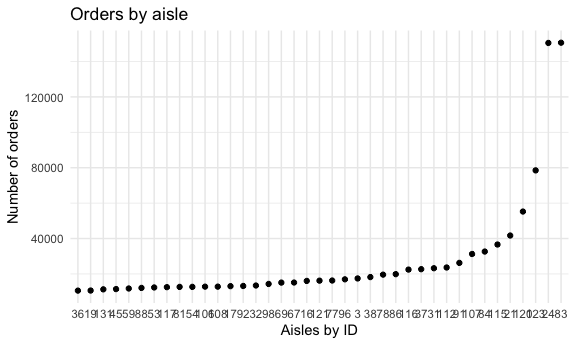
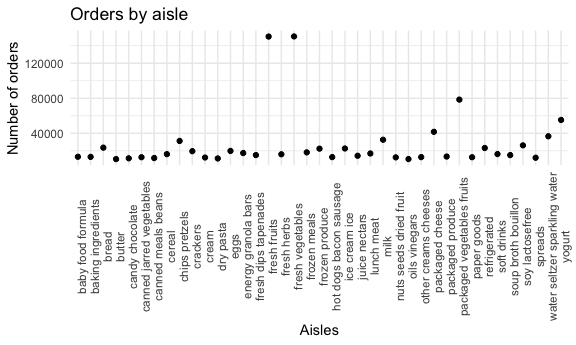
fixed plot in problem 1, added descriptions to all the questions in problem 1, added sentence to a description in problem 3

diff --git a/p8105_hw3_dmh2228.md b/p8105_hw3_dmh2228.md
@@ -72,25 +72,30 @@ are: fresh vegetables, fresh fruits, and packaged vegetable fruits.
 ``` r
 aisle_df = 
   instacart |>
-  count(aisle_id) |>
+  count(aisle) |>
   filter(n > 10000) |>
   mutate(
-    aisle_id = as.factor(aisle_id),
-    aisle_id = fct_reorder(aisle_id, n)
+    aisle_id = as.factor(aisle),
+    aisle_id = fct_reorder(aisle, n)
   )
 
 aisle_plot =
-  ggplot(aisle_df, aes(x = aisle_id, y = n)) + 
+  ggplot(aisle_df, aes(x = aisle, y = n)) + 
   geom_point() +
   labs(
     title = "Orders by aisle",
-    x = "Aisles by ID",
-    y = "Number of orders")
+    x = "Aisles",
+    y = "Number of orders") +
+  theme(axis.text.x = element_text(angle = 90))
 
 aisle_plot
 ```
 
 <img src="p8105_hw3_dmh2228_files/figure-gfm/unnamed-chunk-4-1.png" width="90%" />
+
+Aisles are arranged alphabetically and aisle names are vertical for
+readability. The plot shows that fresh fruit and fresh vegetables have
+the highest number of orders.
 
 # Most popular items in “baking ingredients”, “dog food care”, and “packaged vegetables fruits”
 
@@ -121,6 +126,14 @@ instacart_table
 | dog food care              | Organix Chicken & Brown Rice Recipe           |   28 |
 | dog food care              | Small Dog Biscuits                            |   26 |
 
+The three most ordered products within the packaged vegetables fruits
+aisle are organic baby spinach, organic raspberries, and organic
+blueberries. The three most ordered products within the baking
+ingredients aisle are light brown sugar, pure baking soda, and cane
+sugar. The three most ordered products within the dog food care aisle
+are snack sticks chicken & rice recipe dog treats, organix chicken &
+brown rice recipe, and small dog biscuits.
+
 # Pink Lady Apples and Coffee Ice Cream
 
 ``` r
@@ -149,6 +162,10 @@ apples_coffee_table
 |:-----------------|------:|------:|------:|------:|------:|------:|------:|
 | Coffee Ice Cream | 13.77 | 14.32 | 15.38 | 15.32 | 15.22 | 12.26 | 13.83 |
 | Pink Lady Apples | 13.44 | 11.36 | 11.70 | 14.25 | 11.55 | 12.78 | 11.94 |
+
+The mean hour of day ranges from 11am to 4pm for both coffee ice cream
+and pink lady apples by day of the week. For all but day 5, pink lady
+apples are ordered earlier than coffee ice cream.
 
 # Problem 2: BRFSS
 
@@ -478,4 +495,6 @@ nhanes_24_hour_plot
 Male and female participants across education levels and a 24-hour
 period have a similar pattern in activity throughout the day. However,
 in the highest level of education, there is a greater distribution of
-activity over the 24-hour period among both females and males.
+activity over the 24-hour period among both females and males. The
+x-axis shows hours in a day instead of minutes to make the graph more
+legible.
